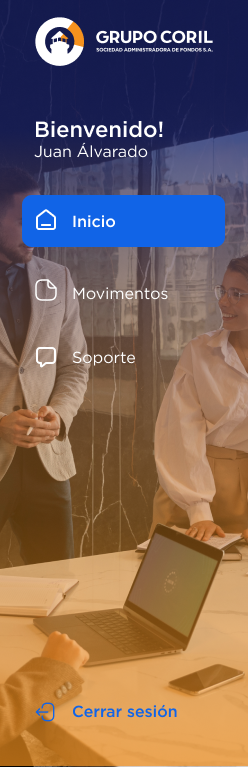
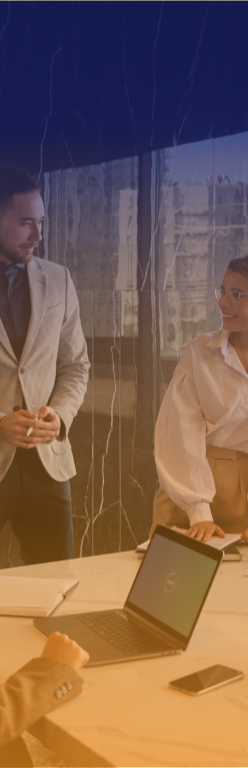
left menu bar done

diff --git a/src/app/core/components/menu-bar/menu-bar.component.scss b/src/app/core/components/menu-bar/menu-bar.component.scss
@@ -1,0 +1,151 @@
+@import "../../../../styles/variables.scss";
+
+.menu-bar {
+  display: none;
+}
+
+@media (min-width: 800px) {
+  .menu-bar {
+    font-family: "GothamMedium";
+    min-height: 100vh;
+    width: 19rem;
+    display: flex;
+    display: -webkit-flex;
+    flex-direction: column;
+    align-items: start;
+    justify-content: start;
+    gap: 5rem;
+    background-image: url("../../../../assets/background.png");
+    background-repeat: no-repeat;
+    background-size: cover;
+
+    &__logo {
+      padding-top: 2rem;
+      padding-left: 3rem;
+    }
+
+    &__options {
+      display: flex;
+      display: -webkit-flex;
+      flex-direction: column;
+    }
+
+    &__info {
+      color: white;
+      display: flex;
+      display: -webkit-flex;
+      flex-direction: column;
+      padding-left: 1.5rem;
+      height: 2rem;
+      gap: 1rem;
+    }
+
+    &__title {
+      font-size: 1.375rem;
+    }
+
+    &__subtitle {
+      font-size: 1rem;
+      font-weight: 300;
+      font-family: "GothamLight" !important;
+    }
+
+    &__options {
+      display: flex;
+      display: -webkit-flex;
+      flex-direction: column;
+      align-items: start;
+      padding-left: 2.4rem;
+      gap: 1rem;
+    }
+
+    &__button {
+      border: none;
+      cursor: pointer;
+      display: flex;
+      display: -webkit-flex;
+      align-items: center;
+      flex-direction: row;
+      gap: 1rem;
+      width: 15rem;
+      padding-top: 0.4rem;
+      padding-bottom: 0.4rem;
+      background-color: transparent;
+      border-radius: 0.6rem;
+
+      &:hover {
+        background-color: $tertiary-color;
+        transition-duration: 0.5s;
+      }
+
+      &-icon {
+        width: 2rem;
+        padding-left: 1rem;
+      }
+
+      &-name {
+        -webkit-flex: auto;
+        flex: auto;
+        padding-top: 1rem;
+        font-size: 1rem;
+        color: white;
+        font-weight: 300;
+        font-family: "GothamLight";
+        text-decoration: none;
+        &:hover {
+          font-weight: 500;
+          font-family: "GothamMedium";
+          text-decoration: underline;
+        }
+      }
+    }
+
+    &__logout {
+      position: absolute;
+      bottom: 2.5rem;
+      padding-left: 2.4rem;
+    }
+
+    &__logout-button {
+      border: none;
+      cursor: pointer;
+      display: flex;
+      display: -webkit-flex;
+      align-items: center;
+      flex-direction: row;
+      gap: 1rem;
+      width: 15rem;
+      padding-top: 0.4rem;
+      padding-bottom: 0.4rem;
+      background-color: transparent;
+      border-radius: 0.6rem;
+
+      &:hover {
+        background-color: white;
+        transition-duration: 0.5s;
+      }
+
+      &-icon {
+        width: 2rem;
+        padding-left: 1rem;
+      }
+
+      &-name {
+        -webkit-flex: auto;
+        flex: auto;
+        padding-top: 1rem;
+        font-size: 1rem;
+        color: $tertiary-color;
+        text-decoration: none;
+        font-weight: 500;
+        font-family: "GothamMedium";
+
+        &:hover {
+          font-weight: 700;
+          font-family: "GothamBold";
+          text-decoration: underline;
+        }
+      }
+    }
+  }
+}

diff --git a/src/app/core/components/navbar/navbar.component.scss b/src/app/core/components/navbar/navbar.component.scss
@@ -4,7 +4,7 @@
   font-family: "GothamMedium";
   height: 5rem;
   background-color: white;
-  min-width: 100vw;
+  min-width: calc(100vw);
   display: flex;
   display: -webkit-flex;
   flex-direction: row;
@@ -12,7 +12,7 @@
   justify-content: space-between;
 
   &__brand {
-    width: 20rem;
+    width: 15rem;
     display: flex;
     display: -webkit-flex;
     padding-left: 1.5rem;
@@ -62,6 +62,8 @@
       & > .main-navbar__title {
         padding-top: 0.5rem;
         color: $primary-color;
+        font-weight: 700;
+        font-family: 'GothamBold';
       }
     }
 
@@ -78,6 +80,7 @@
       display: flex;
       display: -webkit-flex;
       flex-direction: column;
+      align-items: end;
       gap: .5rem;
 
       &--valid {
@@ -93,6 +96,9 @@
         padding-top: 0.5rem;
         color: $secondary-color;
         font-size: 1.125rem;
+        font-weight: 700;
+        font-family: 'GothamBold';
+        text-overflow: ellipsis;
       }
       
       & > .main-navbar__subtitle {
@@ -113,5 +119,11 @@
         color: $primary-color;
       }
     }
+  }
+}
+
+@media (min-width: 800px) {
+  .main-navbar {
+    min-width: calc(100vw - 19rem);
   }
 }

diff --git a/src/app/core/components/menu-bar/menu-bar.component.ts b/src/app/core/components/menu-bar/menu-bar.component.ts
@@ -1,0 +1,29 @@
+import { Component } from '@angular/core';
+import { CATEGORY_OPTIONS } from '../../constants/category-option';
+import { MatIconModule, MatIconRegistry } from '@angular/material/icon';
+import { CommonModule } from '@angular/common';
+import { HttpClientModule } from '@angular/common/http';
+import { MatIconService } from '../../services/material-icon.service';
+import { SidebarService } from '../sidebar/sidebar.service';
+import { DomSanitizer } from '@angular/platform-browser';
+
+@Component({
+  selector: 'app-menu-bar',
+  standalone: true,
+  imports: [MatIconModule, HttpClientModule, CommonModule],
+  templateUrl: './menu-bar.component.html',
+  styleUrls: ['./menu-bar.component.scss'],
+  providers: [MatIconService, MatIconRegistry]
+})
+export class MenuBarComponent {
+  userName = "Luis Alvarado"
+  categories = CATEGORY_OPTIONS
+  constructor(
+    private service: MatIconService,
+    public sidebarService: SidebarService,
+    private matIconRegistry: MatIconRegistry, private domSanitizer: DomSanitizer
+  ) {
+    this.service.registerSvgIcons(this.matIconRegistry, this.domSanitizer);
+   }
+  
+}

diff --git a/src/app/core/components/menu-bar/menu-bar.component.html b/src/app/core/components/menu-bar/menu-bar.component.html
@@ -1,0 +1,33 @@
+<div class="menu-bar">
+  <img class="menu-bar__logo" src="/assets/coril-logo.svg" alt="logo" />
+  <div class="menu-bar__info">
+    <span class="menu-bar__info menu-bar__title"> Bienvenido! </span>
+    <span class="menu-bar__info menu-bar__subtitle">
+      {{ userName }}
+    </span>
+  </div>
+
+  <div class="menu-bar__options">
+    <button *ngFor="let cat of categories" class="menu-bar__button">
+      <mat-icon
+        class="menu-bar__button menu-bar__button-icon"
+        svgIcon="{{ cat.icon }}"
+        aria-hidden="true"
+      ></mat-icon>
+      <span class="menu-bar__button menu-bar__button-name">
+        {{ cat.name }}
+      </span>
+    </button>
+  </div>
+
+  <div class="menu-bar__logout">
+    <button class="menu-bar__logout-button">
+    <mat-icon
+      class="menu-bar__logout-button menu-bar__logout-button-icon"
+      svgIcon="logout"
+      aria-hidden="true"
+    ></mat-icon>
+    <span class="menu-bar__logout-button menu-bar__logout-button-name"> Cerrar Sesión</span>
+    </button>
+  </div>
+</div>

diff --git a/src/app/features/home/pages/dashboard/dashboard.component.ts b/src/app/features/home/pages/dashboard/dashboard.component.ts
@@ -1,4 +1,5 @@
 import { Component } from '@angular/core';
+import { MenuBarComponent } from 'src/app/core/components/menu-bar/menu-bar.component';
 import { NavbarComponent } from 'src/app/core/components/navbar/navbar.component';
 import { SidebarComponent } from 'src/app/core/components/sidebar/sidebar.component';
 import { SidebarService } from 'src/app/core/components/sidebar/sidebar.service';
@@ -7,7 +8,7 @@ import { SidebarService } from 'src/app/core/components/sidebar/sidebar.service'
   selector: 'app-dashboard',
   standalone: true,
   templateUrl: './dashboard.component.html',
-  imports: [SidebarComponent, NavbarComponent],
+  imports: [SidebarComponent, NavbarComponent, MenuBarComponent],
   styleUrls: ['./dashboard.component.scss']
 })
 export class DashboardComponent {

diff --git a/src/app/core/components/menu-bar/menu-bar.component.spec.ts b/src/app/core/components/menu-bar/menu-bar.component.spec.ts
@@ -1,0 +1,21 @@
+import { ComponentFixture, TestBed } from '@angular/core/testing';
+
+import { MenuBarComponent } from './menu-bar.component';
+
+describe('MenuBarComponent', () => {
+  let component: MenuBarComponent;
+  let fixture: ComponentFixture<MenuBarComponent>;
+
+  beforeEach(() => {
+    TestBed.configureTestingModule({
+      declarations: [MenuBarComponent]
+    });
+    fixture = TestBed.createComponent(MenuBarComponent);
+    component = fixture.componentInstance;
+    fixture.detectChanges();
+  });
+
+  it('should create', () => {
+    expect(component).toBeTruthy();
+  });
+});

diff --git a/src/styles.scss b/src/styles.scss
@@ -2,7 +2,7 @@
 
 @font-face {
     font-family: 'GothamLight';
-    src: url('assets/fonts/Gotham/GothamMedium.ttf') format('truetype');
+    src: url('assets/fonts/Gotham/GothamLight.ttf') format('truetype');
     font-weight: 300;
     font-style: normal;
 }
@@ -18,7 +18,7 @@
 
 @font-face {
     font-family: 'GothamBold';
-    src: url('assets/fonts/Gotham/GothamMedium.ttf') format('truetype');
+    src: url('assets/fonts/Gotham/GothamBold.ttf') format('truetype');
     font-weight: 700;
     font-style: normal;
 }

diff --git a/src/app/core/services/material-icon.service.ts b/src/app/core/services/material-icon.service.ts
@@ -86,6 +86,11 @@ export class MatIconService {
         domSanitizer.bypassSecurityTrustResourceUrl(
           '../assets/green-check-icon.svg'
         )
+      ).addSvgIcon(
+        'logout',
+        domSanitizer.bypassSecurityTrustResourceUrl(
+          '../assets/logout-icon.svg'
+        )
       );
   }
 }

diff --git a/src/app/core/constants/category-option.ts b/src/app/core/constants/category-option.ts
@@ -1,0 +1,5 @@
+export const CATEGORY_OPTIONS = [
+    {id: 1, name:'Inicio', icon: "home"},
+    {id: 2, name:'Movimientos', icon: "document"},
+    {id: 3, name:'Soporte', icon: "message"},
+];

diff --git a/src/styles/variables.scss b/src/styles/variables.scss
@@ -4,6 +4,7 @@
 
 $primary-color: #0a3d8d;
 $secondary-color: #14205b;
+$tertiary-color: #1164e7;
 $background-color: #f3f3fa;
 $success-color: #12ac59;
 $white-ff: rgb(238, 235, 235);

diff --git a/src/app/app.module.ts b/src/app/app.module.ts
@@ -6,7 +6,7 @@ import { AppRoutingModule } from './app-routing.module';
 
 @NgModule({
   declarations: [
-    AppComponent,
+    AppComponent
   ],
   imports: [
     BrowserModule,

diff --git a/src/app/features/home/pages/dashboard/dashboard.component.html b/src/app/features/home/pages/dashboard/dashboard.component.html
@@ -1,4 +1,5 @@
 <div class="dashboard">
+  <app-menu-bar> </app-menu-bar>
   <app-navbar></app-navbar>
   <app-sidebar> </app-sidebar>
 </div>
